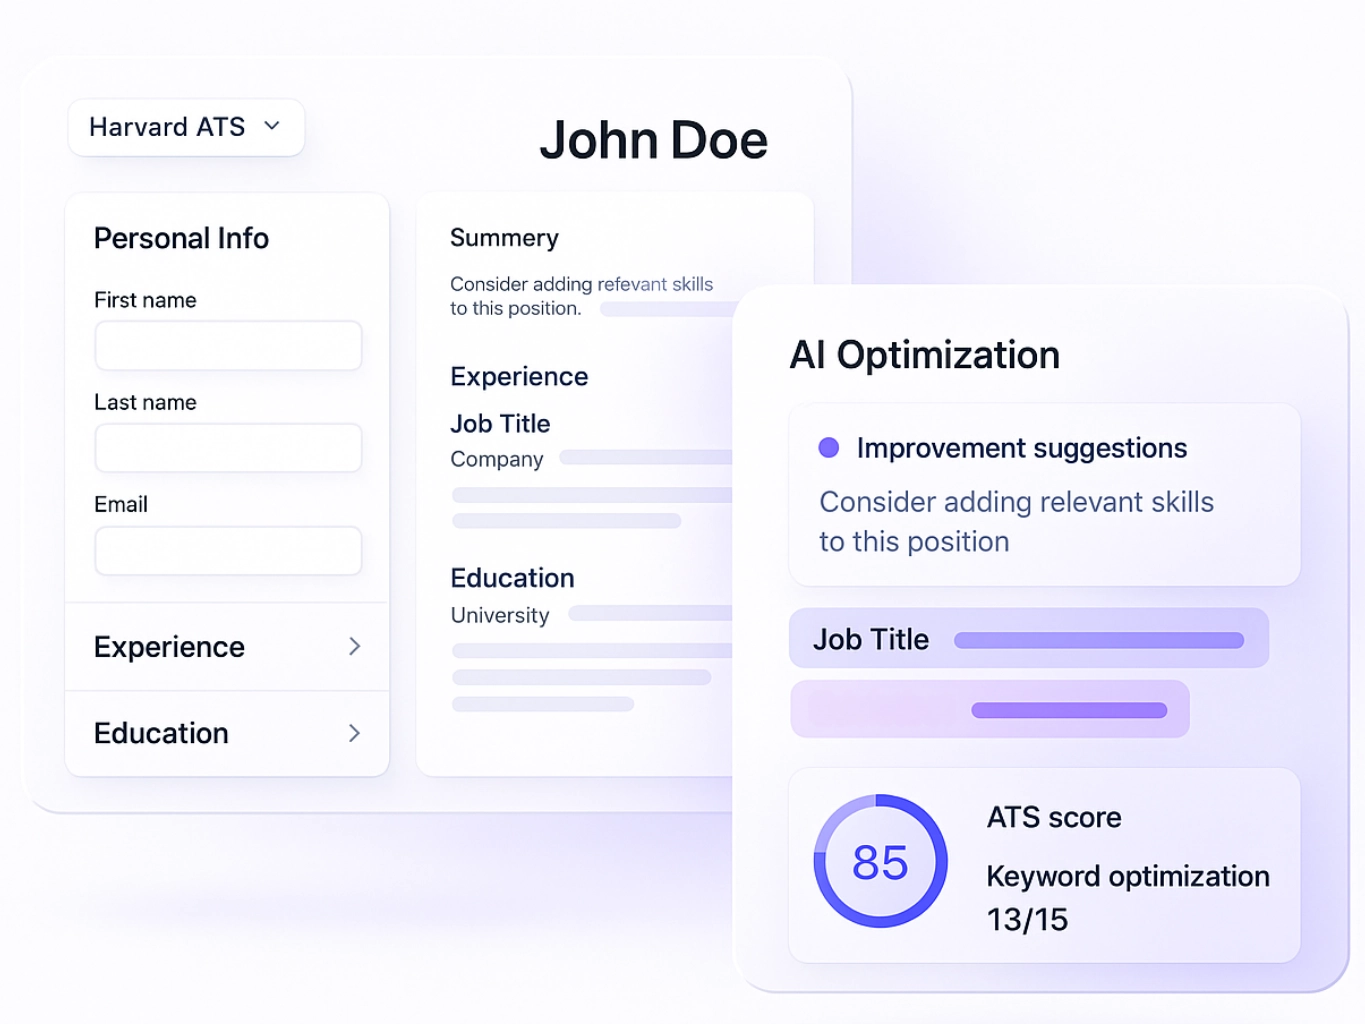
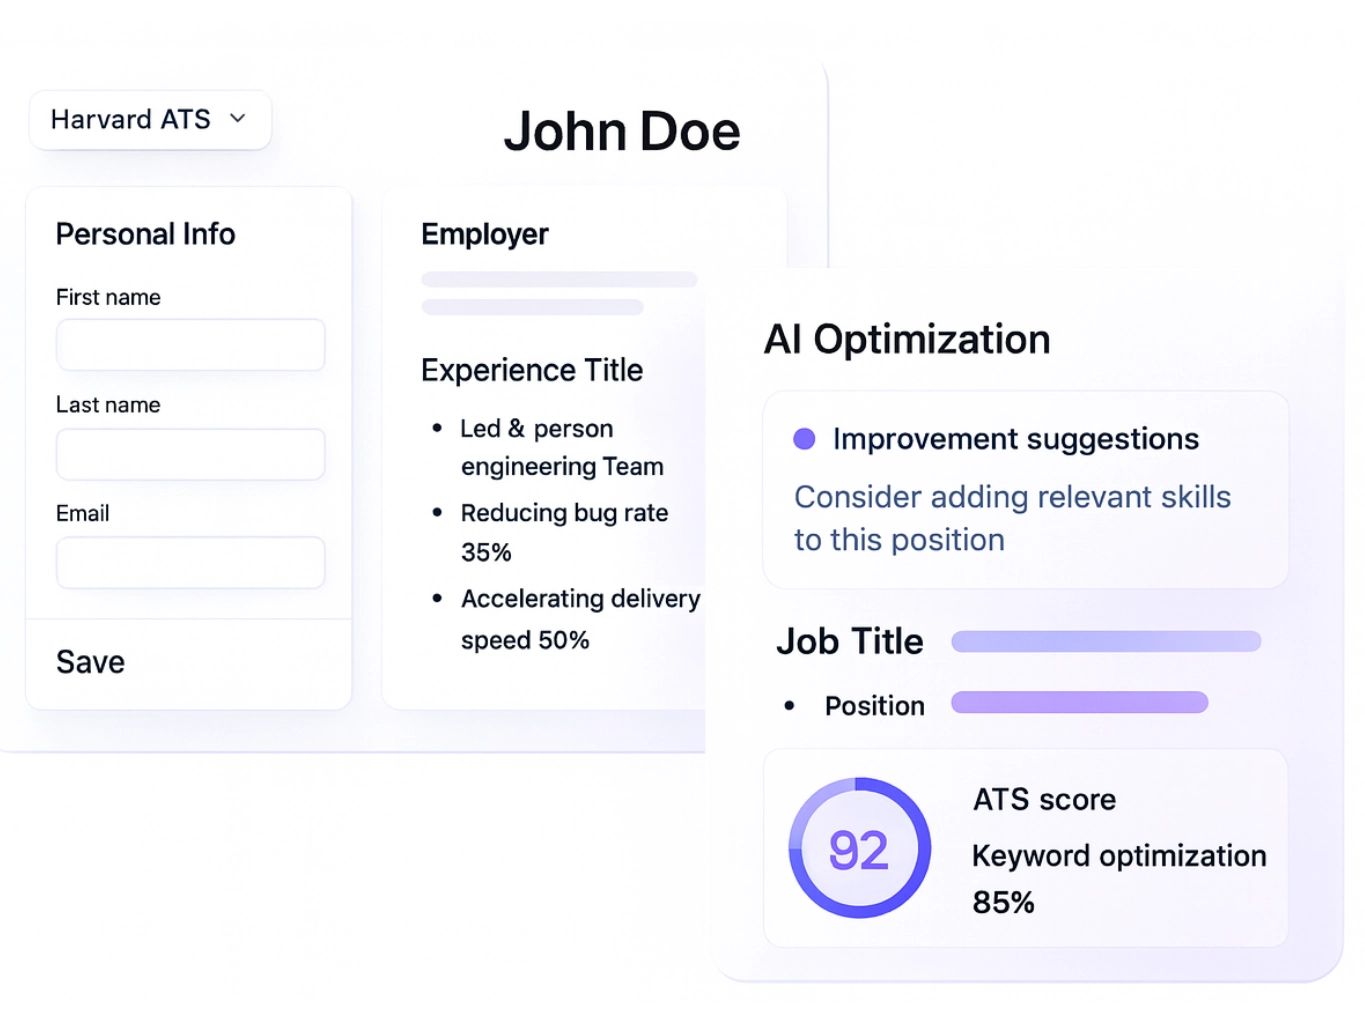
feat: hero section right

diff --git a/components/marketing/Hero.tsx b/components/marketing/Hero.tsx
@@ -7,13 +7,8 @@ import { Waitlist } from '@clerk/nextjs';
 const Hero = () => {
   return (
     <div id="hero" className="relative mx-auto max-w-7xl px-4 sm:px-6 lg:px-8">
-      {/* Background animated blobs - adjusted for mobile */}
-      <div className="absolute top-0 left-0 w-full h-full opacity-10 pointer-events-none overflow-hidden">
-        <div className="absolute -top-1/4 -left-1/4 w-3/4 sm:w-1/2 h-1/2 bg-blue-600 rounded-full blur-3xl opacity-30 animate-pulse"></div>
-        <div className="absolute top-1/2 -right-1/4 w-3/4 sm:w-1/2 h-1/2 bg-purple-600 rounded-full blur-3xl opacity-30 animate-pulse delay-1000"></div>
-      </div>
 
-      <div className="flex min-h-screen flex-col justify-center pt-24 sm:pt-24 pb-8 sm:pb-12">
+      <div className="flex min-h-screen flex-col justify-center pt-20 ">
         {/* Main Title */}
         <div className="w-full max-w-4xl mx-auto text-center mb-8 sm:mb-12">
           <h1 className="text-4xl xs:text-4xl sm:text-5xl md:text-6xl lg:text-7xl font-black text-gray-900 tracking-tighter leading-tight">
@@ -21,9 +16,9 @@ const Hero = () => {
           </h1>
         </div>
 
-        <div className="grid grid-cols-1 lg:grid-cols-2 gap-8 sm:gap-12 items-center">
+        <div className="grid grid-cols-1 lg:grid-cols-2 gap-8 sm:gap-12 items-start">
           {/* Left Content - Now centered */}
-          <div className="space-y-6 sm:space-y-8 text-center">
+          <div className="space-y-6 sm:space-y-8 text-center md:mt-14">
             <div className="text-base sm:text-lg md:text-xl text-gray-600">
               <div className="flex flex-wrap items-center justify-center gap-2 mb-3 sm:mb-4">
                 <span className="inline-block px-3 py-1.5 sm:px-4 sm:py-2 rounded-lg bg-gradient-to-r from-blue-600 to-purple-600 text-white font-extrabold text-lg sm:text-xl md:text-2xl tracking-wide uppercase shadow-md transform -rotate-2">
@@ -71,10 +66,113 @@ const Hero = () => {
             </div>
           </div>
 
-          {/* Right Content - img */}
-          <div className="flex justify-center items-center mt-8 lg:mt-0">
-              <img className="w-full h-full aspect-auto" src='/photo/hero.webp'>
-              </img>
+          {/* Lado derecho: simulación HTML de la UI con cards flotantes */}
+          <div className="relative hidden lg:block w-full overflow-visible min-h-[400px] ">
+            <div className="relative max-w-[900px] mx-auto h-[600px]">
+              {/* Card izquierda - Preview Resume (base layer) */}
+              <div className="absolute top-0 left-0 bg-gradient-to-br from-gray-50 to-white border border-gray-200 shadow-2xl rounded-2xl p-8 w-[340px] z-10 ">
+                <div className="">
+                  <h2 className="font-bold text-2xl text-gray-900 mb-1">John Doe</h2>
+                  <p className="text-gray-500 text-sm mb-6">john.doe@example.com | (555) 123-4567</p>
+
+                  <div className="mb-5">
+                    <h3 className="text-gray-900 font-bold text-sm mb-2 border-b border-gray-900 pb-1">Job Title</h3>
+                    <div className="space-y-1">
+                      <div className="h-3 bg-gray-200 rounded w-3/4"></div>
+                      <div className="h-3 bg-gray-200 rounded w-1/2"></div>
+                    </div>
+                  </div>
+
+                  <div>
+                    <h3 className="text-gray-900 font-bold text-sm mb-2">Responsabilities </h3>
+                    <ul className="text-xs text-gray-700 space-y-2">
+                      <li className="flex items-start gap-2">
+                        <span className="text-gray-400 mt-0.5">•</span>
+                        <span>Led & personalized engineering team</span>
+                      </li>
+                      <li className="flex items-start gap-2">
+                        <span className="text-gray-400 mt-0.5">•</span>
+                        <span><strong>Reducing</strong> bug rate <strong>35%</strong></span>
+                      </li>
+                      <li className="flex items-start gap-2">
+                        <span className="text-gray-400 mt-0.5">•</span>
+                        <span><strong>Accelerating</strong> delivery speed <strong>50%</strong></span>
+                      </li>
+                    </ul>
+                  </div>
+                </div>
+              </div>
+
+              {/* Card derecha - AI Optimization (top layer, overlapping) */}
+              <div className="absolute top-10 left-[300px] bg-white border border-gray-200 shadow-2xl rounded-2xl p-6 w-[340px] z-20 ">
+                <h3 className="font-bold text-gray-900 text-lg mb-4"><span className='text-transparent bg-clip-text bg-gradient-to-r from-blue-600 to-purple-600 '>AI </span>Optimization</h3>
+
+                <div className="bg-purple-50 border border-purple-100 rounded-xl p-4 mb-5">
+                  <div className="flex items-start gap-2 mb-2">
+                    <div className="w-6 h-6 bg-purple-600 rounded-full flex items-center justify-center flex-shrink-0">
+                      <svg className="w-6 h-6 text-white" fill="currentColor" viewBox="0 0 20 20">
+                        <path d="M10 12a2 2 0 100-4 2 2 0 000 4z"/>
+                      </svg>
+                    </div>
+                    <div>
+                      <p className="text-sm font-bold text-gray-900 mb-1">Improvement suggestions</p>
+                      <p className="text-sm text-purple-900">
+                        Consider adding relevant skills to this position
+                      </p>
+                    </div>
+                  </div>
+                </div>
+
+                <div className="space-y-4 mb-6">
+                  <div>
+                    <div className="flex items-center justify-between mb-2">
+                      <p className="text-sm font-semibold text-gray-900">Job Title</p>
+                      <div className="flex items-center gap-1">
+                        <div className="h-2 bg-purple-500 rounded-full w-52"></div>
+                      </div>
+                    </div>
+                  </div>
+                  <div>
+                    <ul className="space-y-1.5 text-sm text-gray-900 font-semibold">
+                      <li className="flex items-center gap-2">
+                        <span>Bullet Points</span>
+                        <div className="flex-1 ml-2">
+                          <div className="h-2 bg-purple-400 rounded-full w-[90%]]"></div>
+                        </div>
+                      </li>
+                    </ul>
+                  </div>
+                </div>
+
+                <div className="border-t border-gray-200 pt-5">
+                  <div className="flex items-center justify-between">
+                    <div>
+                      <p className="text-sm font-bold text-gray-900 mb-1">ATS score</p>
+                      <p className="text-xs text-gray-600">Keyword optimization</p>
+                    </div>
+                    <div className="relative">
+                      <svg className="w-20 h-20 transform -rotate-90">
+                        <circle cx="40" cy="40" r="34" stroke="#e5e7eb" strokeWidth="8" fill="none"/>
+                        <circle
+                          cx="40"
+                          cy="40"
+                          r="34"
+                          stroke="#46a758"
+                          strokeWidth="8"
+                          fill="none"
+                          strokeDasharray="213.628"
+                          strokeDashoffset="21.36"
+                          strokeLinecap="round"
+                        />
+                      </svg>
+                      <div className="absolute inset-0 flex items-center justify-center">
+                        <span className="text-3xl font-bold text-green-500">92</span>
+                      </div>
+                    </div>
+                  </div>
+                </div>
+              </div>
+            </div>
           </div>
         </div>
       </div>
